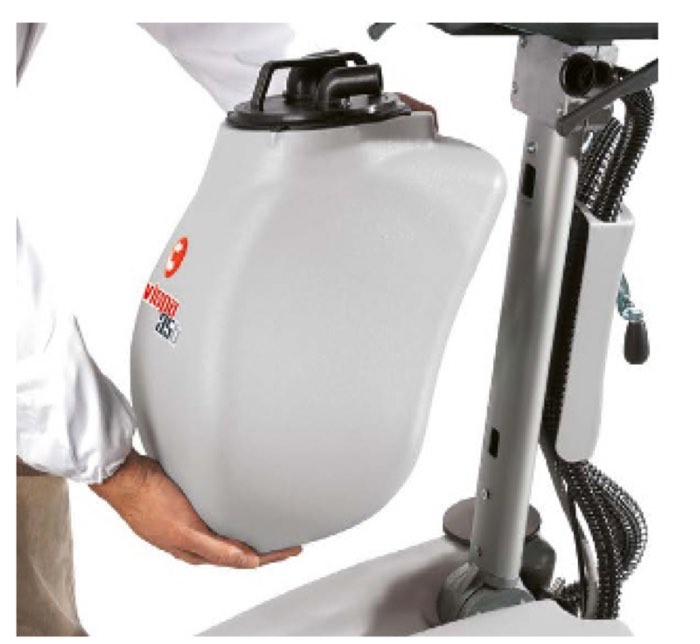
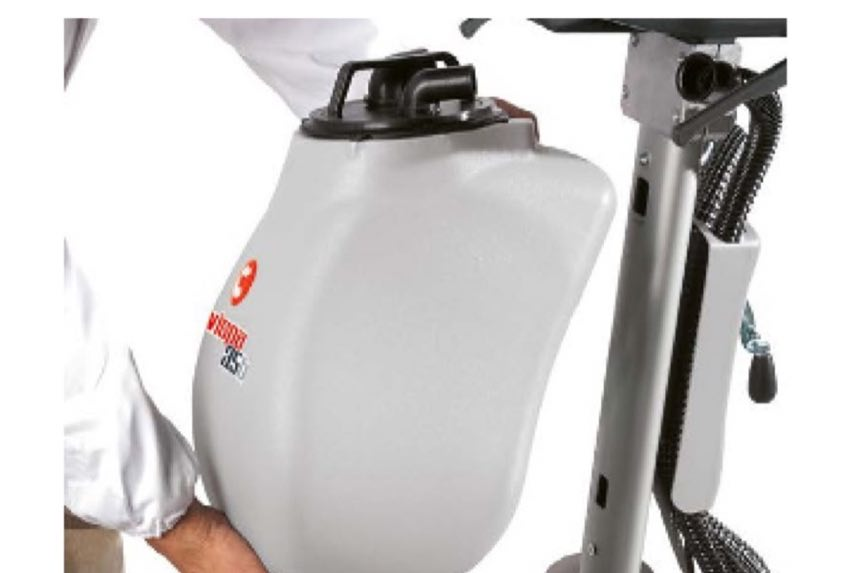
Capa refeita e recortes de imagem corrigidos
Capa em duas colunas: "Proposta comercial" em destaque, dados do cliente
com data e validade, e a maquina isolada com o resumo tecnico. Faixa de
identificacao da Simpla logo abaixo.

Refeitos na origem os recortes de ambiente, escada e tanque, que estavam
cortando pessoa e legenda. Diagramas de rodo, curva e tanque passaram a
usar contain em vez de recorte.

diff --git a/proposta-vispa-35b/com-video/index.html b/proposta-vispa-35b/com-video/index.html
@@ -33,30 +33,31 @@
   .raiz{width:100%!important}
   .only-mob{display:none}
   body{overflow-x:hidden}
-  .capa-top{gap:16px!important}
   @media (max-width:1000px){
     .wrap{padding-inline:22px!important}
     [style*="grid-template-columns"]{grid-template-columns:minmax(0,1fr)!important}
     .g2[style*="grid-template-columns"]{grid-template-columns:repeat(2,minmax(0,1fr))!important}
     .only-desk{display:none!important}
     .only-mob{display:block}
-    .capa-foto{height:280px!important}
+    .capa-tit{font-size:44px!important}
+    .capa-logo{height:34px!important}
+    .capa-col{padding:34px 24px!important}
+    .sec-foto{height:280px!important}
     h1{font-size:34px!important}
     h2{font-size:27px!important}
     h3{font-size:21px!important}
-    .capa-tit{font-size:20px!important}
-    .capa-logo{height:32px!important}
     .num-g div[style*="font-size: 36px"]{font-size:27px!important}
     .sec-pad{padding-top:48px!important;padding-bottom:48px!important}
   }
   @media (max-width:560px){
     .wrap{padding-inline:18px!important}
     .g2[style*="grid-template-columns"]{grid-template-columns:repeat(2,minmax(0,1fr))!important}
+    .capa-tit{font-size:36px!important}
+    .capa-logo{height:29px!important}
+    .capa-col{padding:28px 18px!important}
+    .sec-foto{height:215px!important}
     h1{font-size:29px!important}
     h2{font-size:24px!important}
-    .capa-foto{height:200px!important}
-    .capa-tit{font-size:17px!important}
-    .capa-logo{height:27px!important}
   }
 </style>
 </head>
@@ -68,30 +69,46 @@
   
 
   <!-- ============ CAPA ============ -->
-  <div style="background: linear-gradient(100deg, #00051a 0%, #003865 55%, #005b96 100%); padding: 26px 0">
-    <div class="wrap capa-top" style="display: flex; align-items: center; justify-content: space-between; gap: 32px">
-      <img class="capa-logo" src="simpla-logo.webp" alt="Simpla Lavadoras" style="height: 46px; width: auto; filter: brightness(0) invert(1)">
-      <div style="text-align: right; line-height: 1.05">
-        <span class="capa-tit" style="display: block; font-size: 34px; font-weight: 700; color: #ffffff">Proposta</span>
-        <span class="capa-tit" style="display: block; font-size: 34px; font-weight: 300; color: #ffffff">comercial</span>
+  <div style="display: grid; grid-template-columns: 1.12fr .88fr; align-items: stretch">
+
+    <div class="capa-col" style="background: linear-gradient(150deg, #00051a 0%, #003865 62%, #005b96 100%); padding: 50px 56px 46px">
+      <img class="capa-logo" src="simpla-logo.webp" alt="Simpla Lavadoras" style="height: 42px; width: auto; filter: brightness(0) invert(1)">
+
+      <div style="margin-top: 42px; line-height: .97">
+        <span class="capa-tit" style="display: block; font-size: 62px; font-weight: 800; color: #ffffff; letter-spacing: -.025em">Proposta</span>
+        <span class="capa-tit" style="display: block; font-size: 62px; font-weight: 300; color: #ffffff; letter-spacing: -.025em">comercial</span>
+      </div>
+
+      <div style="margin-top: 26px; padding-top: 22px; border-top: 1px solid rgba(255,255,255,.22)">
+        <span style="display: block; font-size: 24px; font-weight: 700; color: #ffffff">Vispa 35 B</span>
+        <span style="display: block; margin-top: 3px; font-size: 14.5px; font-weight: 600; color: #36b5fb">Lavadora de piso compacta · Comac, Itália</span>
+      </div>
+
+      <div class="g2" style="display: grid; grid-template-columns: repeat(2, minmax(0, 1fr)); gap: 18px 30px; margin-top: 32px; padding-top: 24px; border-top: 1px solid rgba(255,255,255,.22)">
+        <div><span class="lb lb-d">Cliente</span><span class="slot slot-d">RAZÃO SOCIAL</span></div>
+        <div><span class="lb lb-d">CNPJ</span><span class="slot slot-d">00.000.000/0001-00</span></div>
+        <div><span class="lb lb-d">Aos cuidados de</span><span class="slot slot-d">CONTATO</span></div>
+        <div><span class="lb lb-d">Consultor</span><span class="slot slot-d">CONSULTOR</span></div>
+        <div><span class="lb lb-d">Data da proposta</span><span class="slot slot-d">00/00/0000</span></div>
+        <div><span class="lb lb-d">Validade</span><span class="slot slot-d">00/00/0000</span></div>
+      </div>
+    </div>
+
+    <div class="capa-col" style="background: #ffffff; display: flex; flex-direction: column; justify-content: center; align-items: center; padding: 42px 40px">
+      <img src="maquina.jpg" alt="Lavadora de piso Comac Vispa 35 B" style="width: 100%; max-width: 360px; height: auto">
+      <div style="width: 100%; margin-top: 26px; padding-top: 20px; border-top: 1px solid #e4e9f0; display: grid; grid-template-columns: repeat(2, minmax(0, 1fr)); gap: 15px 20px" class="g2">
+        <div><span class="lb">Largura de trabalho</span><span style="font-size: 15px; font-weight: 700; color: #00051a">350 mm</span></div>
+        <div><span class="lb">Rendimento</span><span style="font-size: 15px; font-weight: 700; color: #00051a">até 1.050 m²/h</span></div>
+        <div><span class="lb">Tanques</span><span style="font-size: 15px; font-weight: 700; color: #00051a">10 l + 10 l</span></div>
+        <div><span class="lb">Peso com baterias</span><span style="font-size: 15px; font-weight: 700; color: #00051a">67 kg</span></div>
       </div>
     </div>
   </div>
 
-  <img class="capa-foto" src="hero.jpg" alt="Vispa 35 B em operação" style="width: 100%; height: 470px; object-fit: cover; object-position: center 25%">
-
-  <div style="background: linear-gradient(100deg, #00051a 0%, #003865 55%, #005b96 100%); padding: 34px 0">
-    <div class="wrap" style="display: grid; grid-template-columns: 1fr 1.15fr; gap: 56px; align-items: center">
-      <div>
-        <h1 style="font-size: 44px; font-weight: 800; color: #ffffff; line-height: 1.02">Vispa 35 B</h1>
-        <p style="margin-top: 8px; font-size: 15.5px; font-weight: 600; color: #36b5fb">Lavadora de piso compacta · Comac, Itália</p>
-      </div>
-      <div class="g2" style="display: grid; grid-template-columns: repeat(4, minmax(0, 1fr)); gap: 22px; padding-left: 56px; border-left: 1px solid rgba(255,255,255,.18)">
-        <div><span class="lb lb-d">Preparada para</span><span class="slot slot-d">CLIENTE</span></div>
-        <div><span class="lb lb-d">Aos cuidados de</span><span class="slot slot-d">CONTATO</span></div>
-        <div><span class="lb lb-d">Consultor</span><span class="slot slot-d">CONSULTOR</span></div>
-        <div><span class="lb lb-d">Válida até</span><span class="slot slot-d">00/00/0000</span></div>
-      </div>
+  <div style="background: #00051a; padding: 13px 0">
+    <div class="wrap" style="display: flex; align-items: center; justify-content: space-between; gap: 18px; flex-wrap: wrap">
+      <span style="font-size: 12.5px; color: rgba(255,255,255,.68)">Simpla Comercio de Lavadoras LTDA · CNPJ 04.200.679/0001-13</span>
+      <span style="font-size: 12.5px; color: rgba(255,255,255,.68)">Rua Engenheiro Frederico Dahne, 432 · Sarandi, Porto Alegre/RS · (51) 3343-2566</span>
     </div>
   </div>
 
@@ -112,7 +129,7 @@
             <div style="display: flex; gap: 11px; align-items: flex-start"><span class="ck" style="margin-top: 2px"><svg viewBox="0 0 24 24" fill="none" stroke="#00051a" stroke-width="3.5" stroke-linecap="round" stroke-linejoin="round"><polyline points="20 6 9 17 4 12"/></svg></span><p style="font-size: 14.5px; color: #151a24">Stop&amp;Go: parou a máquina, para a água e a escova</p></div>
           </div>
         </div>
-        <img src="maquina.jpg" alt="Lavadora de piso Comac Vispa 35 B" style="width: 100%; height: auto">
+        <img class="sec-foto" src="hero.jpg" alt="Vispa 35 B em operação" style="width: 100%; height: 430px; object-fit: cover; object-position: center 30%; border-radius: 14px">
       </div>
     </div>
   </div>
@@ -195,14 +212,14 @@
           </div>
         </div>
         <div style="background: #ffffff; border: 1px solid #e4e9f0; border-radius: 14px; overflow: hidden">
-          <img src="tanque.jpg" alt="Tanque de recuperação" style="width: 100%; height: 200px; object-fit: cover">
+          <img src="tanque.jpg" alt="Tanque de recuperação" style="width: 100%; height: 200px; object-fit: contain; background: #ffffff; padding: 10px">
           <div style="padding: 20px 24px; border-top: 1px solid #e4e9f0">
             <h4 style="font-size: 17px; color: #00051a; margin-bottom: 7px">Tanque de recuperação</h4>
             <p style="font-size: 14.5px; color: #5f6b7a">A água suja é coletada num tanque de 10 litros que sai com uma mão. O que estava no chão vai embora do prédio.</p>
           </div>
         </div>
         <div style="background: #ffffff; border: 1px solid #e4e9f0; border-radius: 14px; overflow: hidden">
-          <img src="curva.jpg" alt="Secagem em curva" style="width: 100%; height: 200px; object-fit: cover">
+          <img src="curva.jpg" alt="Secagem em curva" style="width: 100%; height: 200px; object-fit: contain; background: #ffffff; padding: 10px">
           <div style="padding: 20px 24px; border-top: 1px solid #e4e9f0">
             <h4 style="font-size: 17px; color: #00051a; margin-bottom: 7px">Válvula de alívio</h4>
             <p style="font-size: 14.5px; color: #5f6b7a">Mantém a vazão constante do começo ao fim. A máquina não larga poça num ponto e chega seca no outro.</p>

diff --git a/proposta-vispa-35b/index.html b/proposta-vispa-35b/index.html
@@ -33,30 +33,31 @@
   .raiz{width:100%!important}
   .only-mob{display:none}
   body{overflow-x:hidden}
-  .capa-top{gap:16px!important}
   @media (max-width:1000px){
     .wrap{padding-inline:22px!important}
     [style*="grid-template-columns"]{grid-template-columns:minmax(0,1fr)!important}
     .g2[style*="grid-template-columns"]{grid-template-columns:repeat(2,minmax(0,1fr))!important}
     .only-desk{display:none!important}
     .only-mob{display:block}
-    .capa-foto{height:280px!important}
+    .capa-tit{font-size:44px!important}
+    .capa-logo{height:34px!important}
+    .capa-col{padding:34px 24px!important}
+    .sec-foto{height:280px!important}
     h1{font-size:34px!important}
     h2{font-size:27px!important}
     h3{font-size:21px!important}
-    .capa-tit{font-size:20px!important}
-    .capa-logo{height:32px!important}
     .num-g div[style*="font-size: 36px"]{font-size:27px!important}
     .sec-pad{padding-top:48px!important;padding-bottom:48px!important}
   }
   @media (max-width:560px){
     .wrap{padding-inline:18px!important}
     .g2[style*="grid-template-columns"]{grid-template-columns:repeat(2,minmax(0,1fr))!important}
+    .capa-tit{font-size:36px!important}
+    .capa-logo{height:29px!important}
+    .capa-col{padding:28px 18px!important}
+    .sec-foto{height:215px!important}
     h1{font-size:29px!important}
     h2{font-size:24px!important}
-    .capa-foto{height:200px!important}
-    .capa-tit{font-size:17px!important}
-    .capa-logo{height:27px!important}
   }
 </style>
 </head>
@@ -68,30 +69,46 @@
   
 
   <!-- ============ CAPA ============ -->
-  <div style="background: linear-gradient(100deg, #00051a 0%, #003865 55%, #005b96 100%); padding: 26px 0">
-    <div class="wrap capa-top" style="display: flex; align-items: center; justify-content: space-between; gap: 32px">
-      <img class="capa-logo" src="simpla-logo.webp" alt="Simpla Lavadoras" style="height: 46px; width: auto; filter: brightness(0) invert(1)">
-      <div style="text-align: right; line-height: 1.05">
-        <span class="capa-tit" style="display: block; font-size: 34px; font-weight: 700; color: #ffffff">Proposta</span>
-        <span class="capa-tit" style="display: block; font-size: 34px; font-weight: 300; color: #ffffff">comercial</span>
+  <div style="display: grid; grid-template-columns: 1.12fr .88fr; align-items: stretch">
+
+    <div class="capa-col" style="background: linear-gradient(150deg, #00051a 0%, #003865 62%, #005b96 100%); padding: 50px 56px 46px">
+      <img class="capa-logo" src="simpla-logo.webp" alt="Simpla Lavadoras" style="height: 42px; width: auto; filter: brightness(0) invert(1)">
+
+      <div style="margin-top: 42px; line-height: .97">
+        <span class="capa-tit" style="display: block; font-size: 62px; font-weight: 800; color: #ffffff; letter-spacing: -.025em">Proposta</span>
+        <span class="capa-tit" style="display: block; font-size: 62px; font-weight: 300; color: #ffffff; letter-spacing: -.025em">comercial</span>
+      </div>
+
+      <div style="margin-top: 26px; padding-top: 22px; border-top: 1px solid rgba(255,255,255,.22)">
+        <span style="display: block; font-size: 24px; font-weight: 700; color: #ffffff">Vispa 35 B</span>
+        <span style="display: block; margin-top: 3px; font-size: 14.5px; font-weight: 600; color: #36b5fb">Lavadora de piso compacta · Comac, Itália</span>
+      </div>
+
+      <div class="g2" style="display: grid; grid-template-columns: repeat(2, minmax(0, 1fr)); gap: 18px 30px; margin-top: 32px; padding-top: 24px; border-top: 1px solid rgba(255,255,255,.22)">
+        <div><span class="lb lb-d">Cliente</span><span class="slot slot-d">RAZÃO SOCIAL</span></div>
+        <div><span class="lb lb-d">CNPJ</span><span class="slot slot-d">00.000.000/0001-00</span></div>
+        <div><span class="lb lb-d">Aos cuidados de</span><span class="slot slot-d">CONTATO</span></div>
+        <div><span class="lb lb-d">Consultor</span><span class="slot slot-d">CONSULTOR</span></div>
+        <div><span class="lb lb-d">Data da proposta</span><span class="slot slot-d">00/00/0000</span></div>
+        <div><span class="lb lb-d">Validade</span><span class="slot slot-d">00/00/0000</span></div>
+      </div>
+    </div>
+
+    <div class="capa-col" style="background: #ffffff; display: flex; flex-direction: column; justify-content: center; align-items: center; padding: 42px 40px">
+      <img src="maquina.jpg" alt="Lavadora de piso Comac Vispa 35 B" style="width: 100%; max-width: 360px; height: auto">
+      <div style="width: 100%; margin-top: 26px; padding-top: 20px; border-top: 1px solid #e4e9f0; display: grid; grid-template-columns: repeat(2, minmax(0, 1fr)); gap: 15px 20px" class="g2">
+        <div><span class="lb">Largura de trabalho</span><span style="font-size: 15px; font-weight: 700; color: #00051a">350 mm</span></div>
+        <div><span class="lb">Rendimento</span><span style="font-size: 15px; font-weight: 700; color: #00051a">até 1.050 m²/h</span></div>
+        <div><span class="lb">Tanques</span><span style="font-size: 15px; font-weight: 700; color: #00051a">10 l + 10 l</span></div>
+        <div><span class="lb">Peso com baterias</span><span style="font-size: 15px; font-weight: 700; color: #00051a">67 kg</span></div>
       </div>
     </div>
   </div>
 
-  <img class="capa-foto" src="hero.jpg" alt="Vispa 35 B em operação" style="width: 100%; height: 470px; object-fit: cover; object-position: center 25%">
-
-  <div style="background: linear-gradient(100deg, #00051a 0%, #003865 55%, #005b96 100%); padding: 34px 0">
-    <div class="wrap" style="display: grid; grid-template-columns: 1fr 1.15fr; gap: 56px; align-items: center">
-      <div>
-        <h1 style="font-size: 44px; font-weight: 800; color: #ffffff; line-height: 1.02">Vispa 35 B</h1>
-        <p style="margin-top: 8px; font-size: 15.5px; font-weight: 600; color: #36b5fb">Lavadora de piso compacta · Comac, Itália</p>
-      </div>
-      <div class="g2" style="display: grid; grid-template-columns: repeat(4, minmax(0, 1fr)); gap: 22px; padding-left: 56px; border-left: 1px solid rgba(255,255,255,.18)">
-        <div><span class="lb lb-d">Preparada para</span><span class="slot slot-d">CLIENTE</span></div>
-        <div><span class="lb lb-d">Aos cuidados de</span><span class="slot slot-d">CONTATO</span></div>
-        <div><span class="lb lb-d">Consultor</span><span class="slot slot-d">CONSULTOR</span></div>
-        <div><span class="lb lb-d">Válida até</span><span class="slot slot-d">00/00/0000</span></div>
-      </div>
+  <div style="background: #00051a; padding: 13px 0">
+    <div class="wrap" style="display: flex; align-items: center; justify-content: space-between; gap: 18px; flex-wrap: wrap">
+      <span style="font-size: 12.5px; color: rgba(255,255,255,.68)">Simpla Comercio de Lavadoras LTDA · CNPJ 04.200.679/0001-13</span>
+      <span style="font-size: 12.5px; color: rgba(255,255,255,.68)">Rua Engenheiro Frederico Dahne, 432 · Sarandi, Porto Alegre/RS · (51) 3343-2566</span>
     </div>
   </div>
 
@@ -112,7 +129,7 @@
             <div style="display: flex; gap: 11px; align-items: flex-start"><span class="ck" style="margin-top: 2px"><svg viewBox="0 0 24 24" fill="none" stroke="#00051a" stroke-width="3.5" stroke-linecap="round" stroke-linejoin="round"><polyline points="20 6 9 17 4 12"/></svg></span><p style="font-size: 14.5px; color: #151a24">Stop&amp;Go: parou a máquina, para a água e a escova</p></div>
           </div>
         </div>
-        <img src="maquina.jpg" alt="Lavadora de piso Comac Vispa 35 B" style="width: 100%; height: auto">
+        <img class="sec-foto" src="hero.jpg" alt="Vispa 35 B em operação" style="width: 100%; height: 430px; object-fit: cover; object-position: center 30%; border-radius: 14px">
       </div>
     </div>
   </div>
@@ -170,14 +187,14 @@
           </div>
         </div>
         <div style="background: #ffffff; border: 1px solid #e4e9f0; border-radius: 14px; overflow: hidden">
-          <img src="tanque.jpg" alt="Tanque de recuperação" style="width: 100%; height: 200px; object-fit: cover">
+          <img src="tanque.jpg" alt="Tanque de recuperação" style="width: 100%; height: 200px; object-fit: contain; background: #ffffff; padding: 10px">
           <div style="padding: 20px 24px; border-top: 1px solid #e4e9f0">
             <h4 style="font-size: 17px; color: #00051a; margin-bottom: 7px">Tanque de recuperação</h4>
             <p style="font-size: 14.5px; color: #5f6b7a">A água suja é coletada num tanque de 10 litros que sai com uma mão. O que estava no chão vai embora do prédio.</p>
           </div>
         </div>
         <div style="background: #ffffff; border: 1px solid #e4e9f0; border-radius: 14px; overflow: hidden">
-          <img src="curva.jpg" alt="Secagem em curva" style="width: 100%; height: 200px; object-fit: cover">
+          <img src="curva.jpg" alt="Secagem em curva" style="width: 100%; height: 200px; object-fit: contain; background: #ffffff; padding: 10px">
           <div style="padding: 20px 24px; border-top: 1px solid #e4e9f0">
             <h4 style="font-size: 17px; color: #00051a; margin-bottom: 7px">Válvula de alívio</h4>
             <p style="font-size: 14.5px; color: #5f6b7a">Mantém a vazão constante do começo ao fim. A máquina não larga poça num ponto e chega seca no outro.</p>
